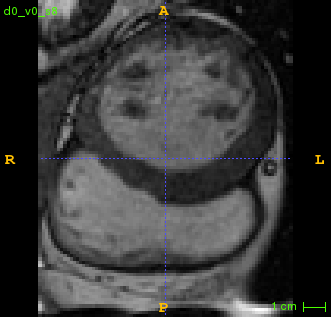
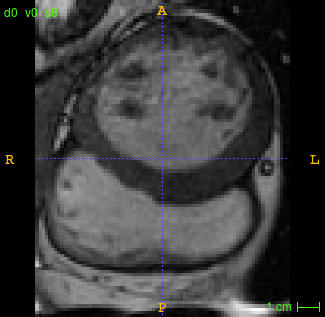
updated thesis

diff --git a/thesis/chapters/ChapterC.tex b/thesis/chapters/ChapterC.tex
@@ -113,13 +113,13 @@ ROI的设置与配准结果直接相关，选择的原则如下：
 由于磁共振采集到图像容易产生灰度不均以及某些部位灰度异常的情况，
 我们需要在配准之前对图像灰度进行校正。
 又由于多图谱方法中，最后还会进行图谱挑选、融合分割结果等步骤，
-所以我们采取了非常简单的灰度校正方法---加窗。
+所以我们采取了非常简单的灰度校正方法：
 统计像素灰度值并排序，
-然后将第5\%和95\%的像素的灰度值设置为最大值和最小值后加窗，
-得到的图像再进行配准。
+然后将第5\%和95\%的像素的灰度值设置为最大值和最小值后重新分配灰度值，
+得到的图像再进行配准。这个方法与图像加窗显示类似。
 
-图\ref{WinBefore}\ref{WinBefore}分别展示了灰度校正之前和之后的结果，
-注意图像胸腔前侧高亮部分。
+图\ref{WinBefore}\ref{WinAfter}分别展示了灰度校正之前和之后的结果，
+图\ref{WinBefore}中，图像胸腔前侧高亮部分导致整个图像看起来较暗。
 \begin{pics}[htpb]{图像相似度测度方法比较}{WinComparation}
   \addsubpic{原图}{width=0.45\textwidth}{WinBefore}
   \addsubpic{校正后的结果}{width=0.45\textwidth}{WinAfter}
@@ -166,16 +166,23 @@ ROI的设置与配准结果直接相关，选择的原则如下：
 在每一层次图像，高斯模糊中参数$\sigma$分别为3，2，1和0。
 
 \subsection{配准结果}
-使用上述方法，示例配准结果如下。图\ref{RegistrationTarget}，
-\ref{RegistrationAtlas}，\ref{RegistrationWarpedAtlas}，
-\ref{RegistrationPrediction}，\ref{RegistrationGroundTruth}
-分别展示了待配准图像、图谱、变形后的图谱、分割结果、手工分割结果。
+使用上述方法，示例配准结果如下。
+图\ref{RegistrationAtlasImage}是图谱图像；
+图\ref{RegistrationTarget}是待配准的目标图像；
+图\ref{RegistrationWarpedAtlasImage}是变形后图谱图像，
+仔细比较，变形后的图谱图像已经和目标图像比较相似了；
+图\ref{RegistrationAtlasLabel}是图谱标签，即对图谱图像的手工分割结果；
+图\ref{RegistrationTransformation}是配准带来的变形，
+我们将变形施加到一个网格图像上来显示它的效果；
+图\ref{RegistrationWarpedAtlasLabel}是将配准带来的变形施加到图谱图像的结果，
+可以作为目标图像分割的一个估计。
 \begin{pics}[htpb]{图像相似度测度方法比较}{RegistrationExample}
+  \addsubpic{图谱图像}{width=0.3\textwidth}{RegistrationAtlasImage}
   \addsubpic{待配准图像}{width=0.3\textwidth}{RegistrationTarget}
-  \addsubpic{图谱}{width=0.3\textwidth}{RegistrationAtlas}
-  \addsubpic{配准并变形后的图谱}{width=0.3\textwidth}{RegistrationWarpedAtlas}
-  \addsubpic{标签传递结果}{width=0.3\textwidth}{RegistrationPrediction}
-  \addsubpic{手工分割结果}{width=0.3\textwidth}{RegistrationGroundTruth}
+  \addsubpic{变形的图谱图像}{width=0.3\textwidth}{RegistrationWarpedAtlasImage}
+  \addsubpic{图谱标签}{width=0.3\textwidth}{RegistrationAtlasLabel}
+  \addsubpic{配准产生的变形}{width=0.3\textwidth}{RegistrationTransformation}
+  \addsubpic{变形的图谱标签}{width=0.3\textwidth}{RegistrationWarpedAtlasLabel}
 \end{pics}
 
 \section{图谱选择}
@@ -213,6 +220,8 @@ ROI的设置与配准结果直接相关，选择的原则如下：
 刚性变换和仿射变换配准的只消耗不到1秒，
 而整个非刚性配准过程需要2分多钟。
 所以，我们提出了一个二次配准方法。
+整个方法分割流程如图\ref{MyMASFlowchart}。
+\pic[htpb]{分割流程图}{width=0.4\textwidth}{MyMASFlowchart}
 \begin{enumerate}
   \item 将所有的图谱和待分割图像使用仿射变换进行配准。
     由于仿射变换下的配准计算量小，
@@ -229,8 +238,6 @@ ROI的设置与配准结果直接相关，选择的原则如下：
   \item 将上一步筛选出的图谱中的标签融合，得到最终结果。
 \end{enumerate}
 
-整个方法分割流程如图\ref{MyMASFlowchart}。
-\pic[htpb]{分割流程图}{width=0.4\textwidth}{MyMASFlowchart}
 
 \section{标签融合}
 
@@ -253,7 +260,7 @@ ROI的设置与配准结果直接相关，选择的原则如下：
 我们任意选取4个切片，计算融合方法、融合数目和最终结果准且性的关系，
 如图\ref{LabelFusionNumAndMethod1}, \ref{LabelFusionNumAndMethod2},
 \ref{LabelFusionNumAndMethod3}, \ref{LabelFusionNumAndMethod4}所示
-（n只取到10，因为过多的图谱会导致计算时间快速上升）。
+（n只取到10，因为过多的图谱会导致计算时间快速上升，在实际应用中价值不大）。
 \begin{pics}[htpb]{结果准确性与融合方法和融合标签数目关系}{NMComparation}
   \addsubpic{d0-v0-s7}{width=0.45\textwidth}{LabelFusionNumAndMethod1}
   \addsubpic{d0-v0-s8}{width=0.45\textwidth}{LabelFusionNumAndMethod2}
